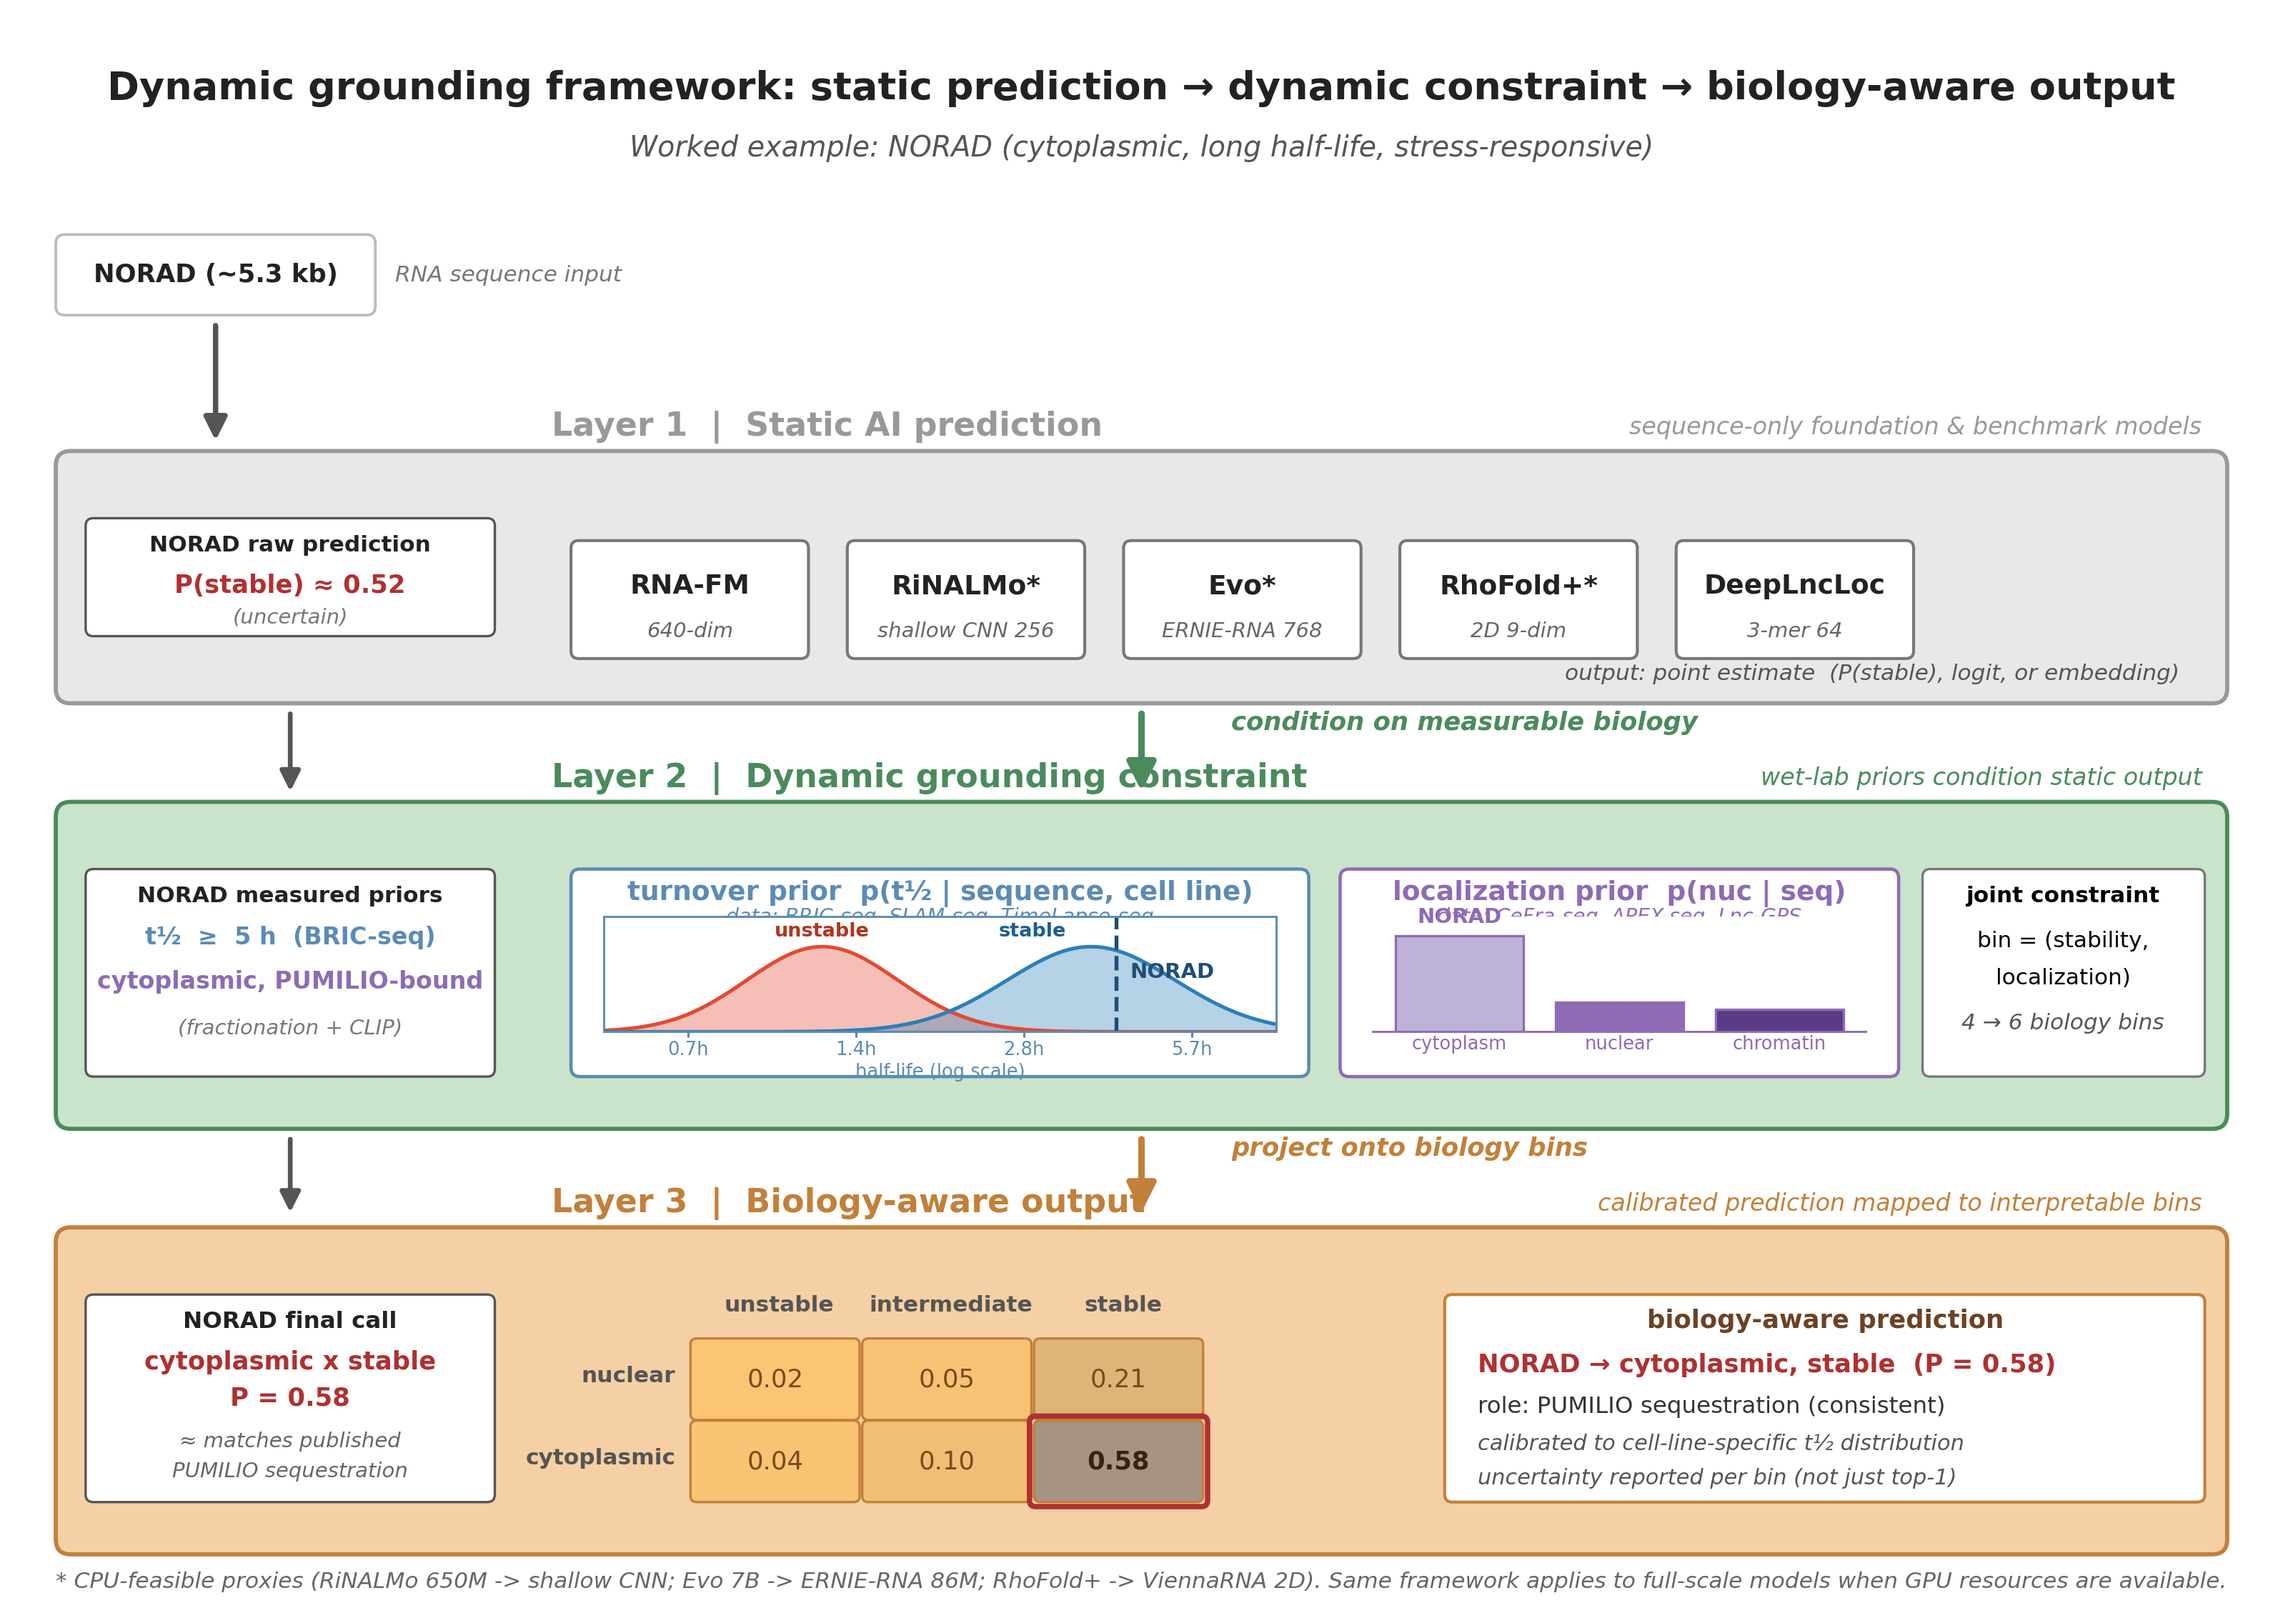
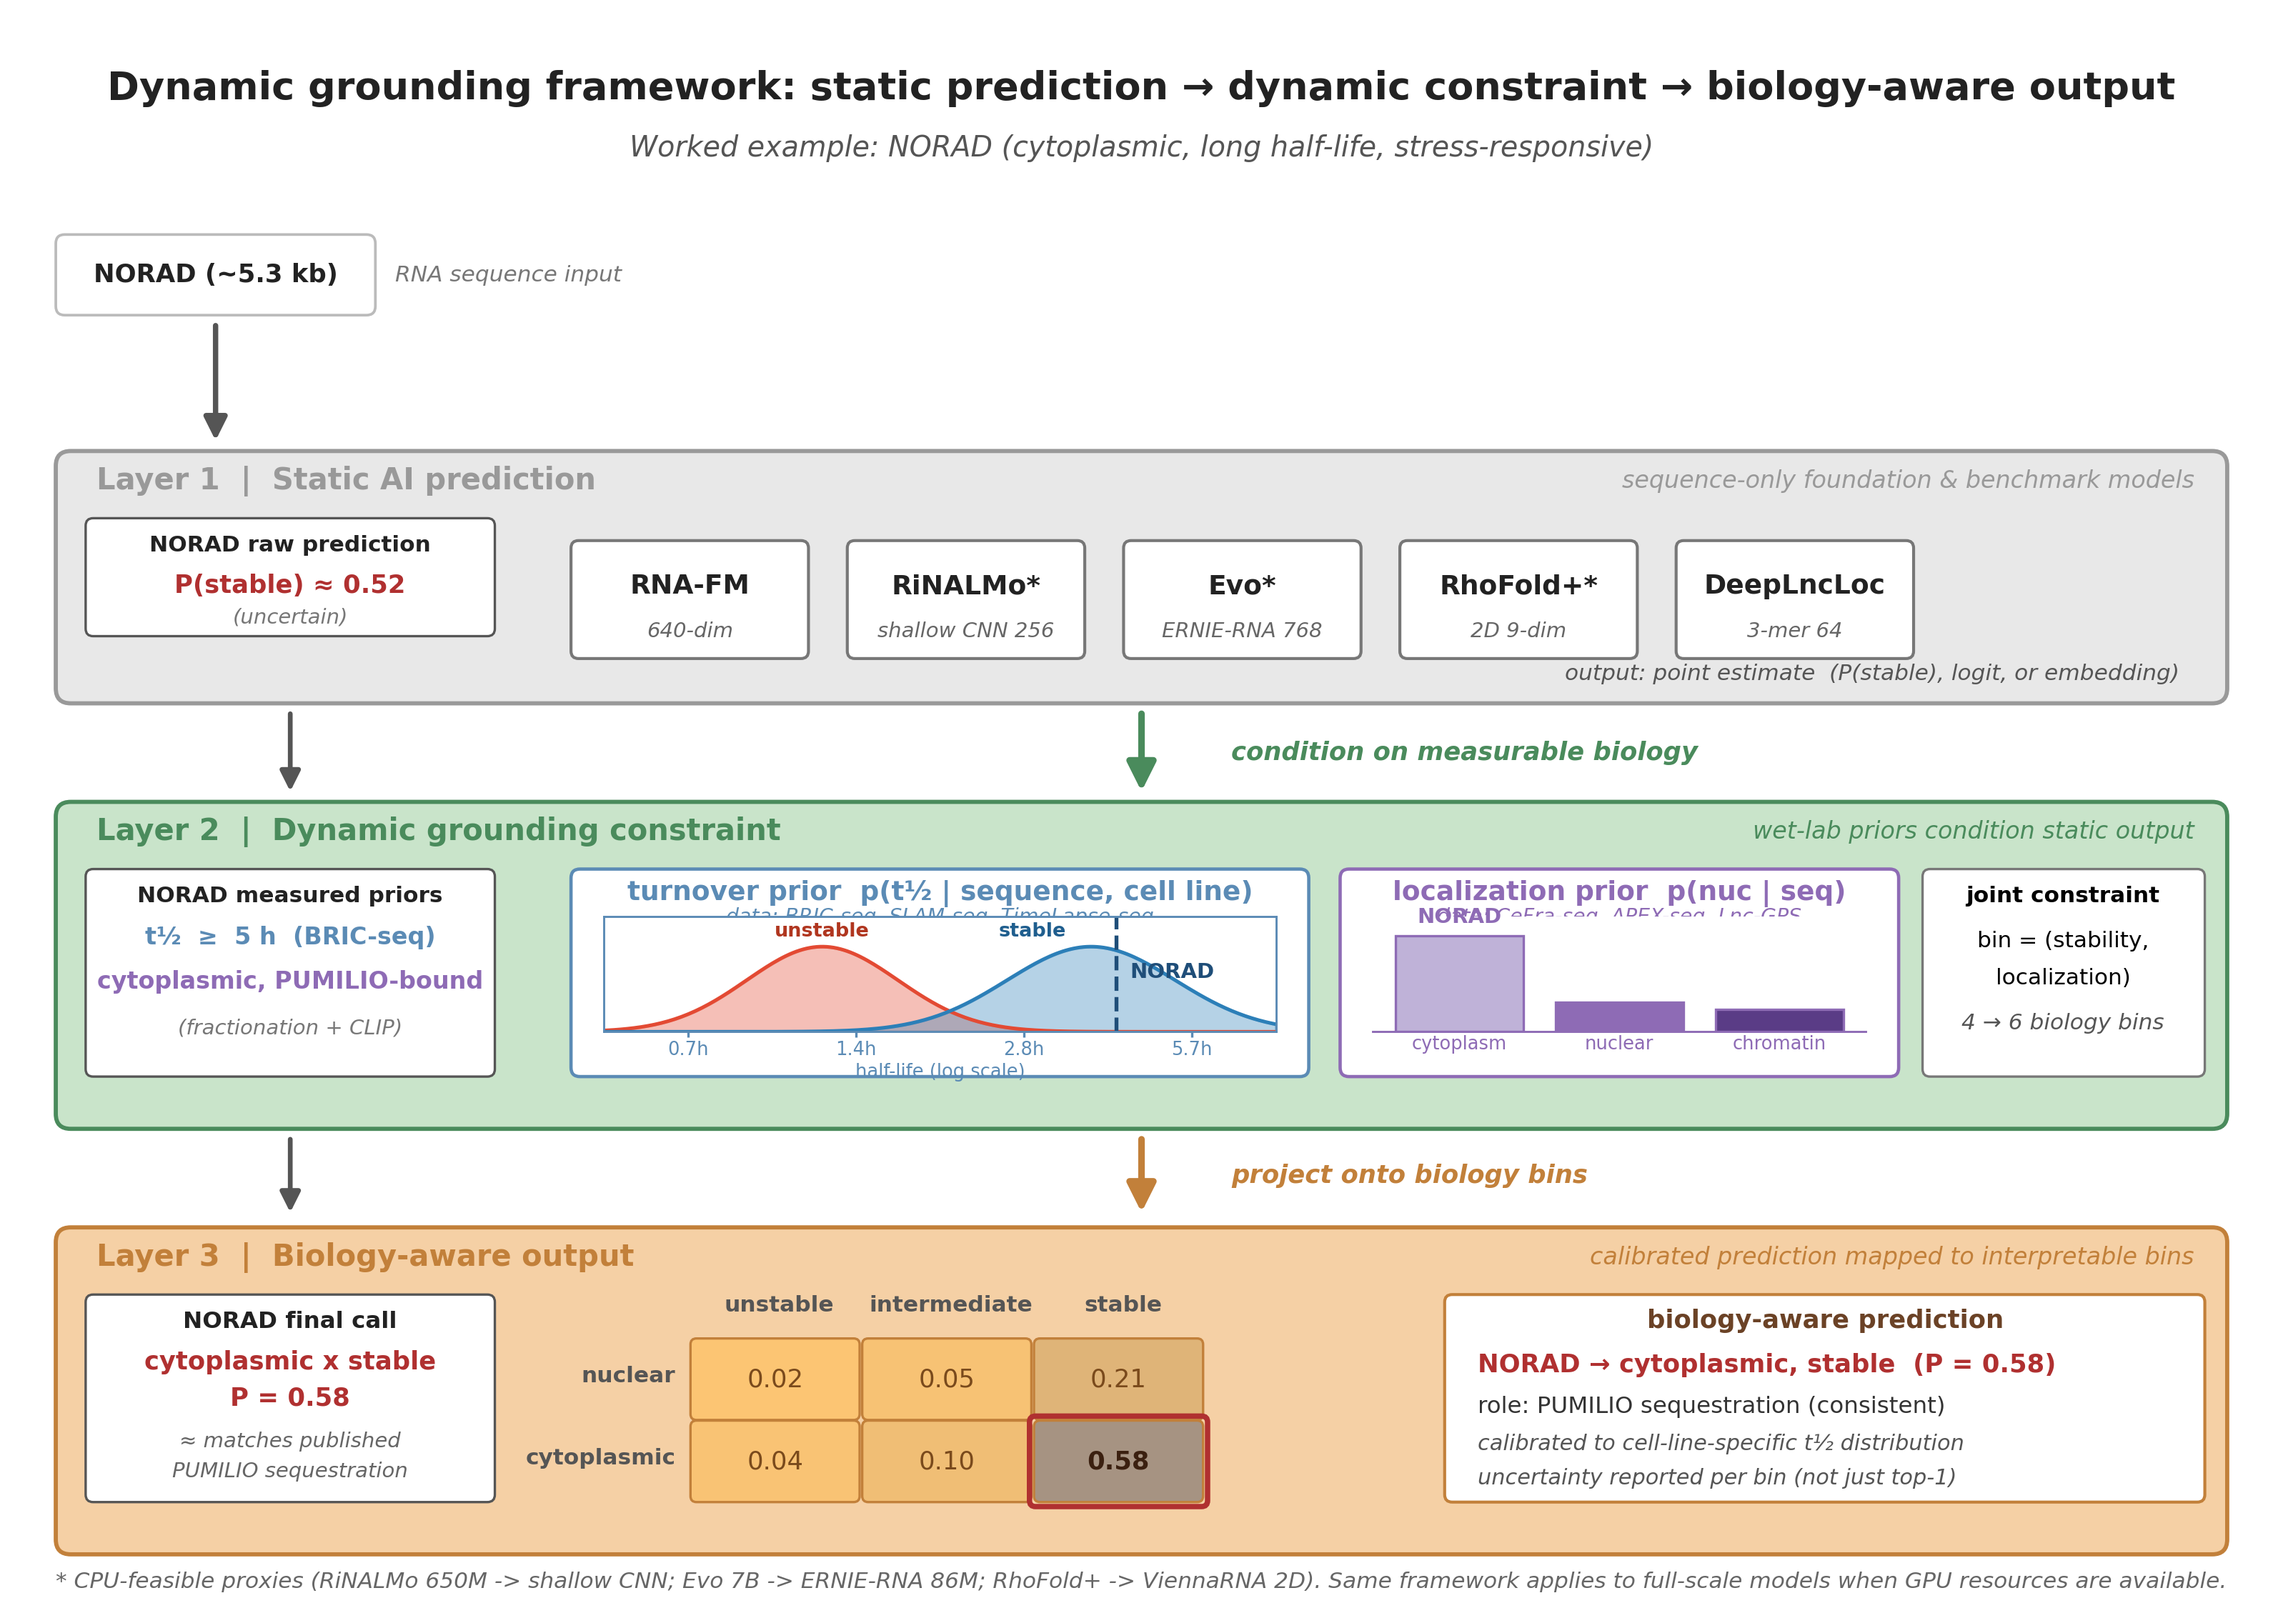
fig5: move layer headers inside bands to eliminate arrow crossover
The previous layout kept the Layer headers above each band, which
caused the central bridge arrows (x=7.5) to cross through the
Dynamic grounding constraint and Biology-aware output header text.
Place the header text inside the band at the top left (and the
italic subtitle at the top right) so the inter-band gap contains
only the bridge arrow and its italic caption.

diff --git a/figures/fig5_framework.py b/figures/fig5_framework.py
@@ -86,13 +86,14 @@ def draw_arrow(ax, xy_from, xy_to, color=C_ARROW, lw=1.6, style="-|>",
 
 def layer_band(ax, x, y, w, h, color, edge, label, sublabel=None):
     draw_rounded_box(ax, x, y, w, h, color, edge, lw=1.4, rounding=0.1)
-    # Header placed ABOVE the band, shifted right so the left-column
-    # vertical arrows (x~1.8) do not cross the header text.
-    ax.text(x + 3.30, y + h + 0.18, label,
+    # Header placed INSIDE the band at the top so the inter-band gap
+    # contains only the bridge arrow and its italic caption; this
+    # avoids the central down-arrow crossing the header text.
+    ax.text(x + 0.25, y + h - 0.18, label,
             ha="left", va="center",
-            fontsize=11, fontweight="bold", color=edge)
+            fontsize=10, fontweight="bold", color=edge)
     if sublabel:
-        ax.text(x + w - 0.15, y + h + 0.18, sublabel,
+        ax.text(x + w - 0.20, y + h - 0.18, sublabel,
                 ha="right", va="center",
                 fontsize=8, fontstyle="italic", color=edge)
 
@@ -191,7 +192,7 @@ def main():
     # ------------------------------------------------------------------
     # Center bridge arrow
     draw_arrow(ax, (7.5, 5.90), (7.5, 5.30), color=C_ARROW_DN, lw=2.2, mutation_scale=20)
-    ax.text(8.1, 5.80, "condition on measurable biology",
+    ax.text(8.1, 5.60, "condition on measurable biology",
             ha="left", va="center",
             fontsize=8.5, fontweight="bold", color=C_ARROW_DN, fontstyle="italic")
 
@@ -404,7 +405,7 @@ def main():
     draw_arrow(ax, (1.8, 3.05), (1.8, 2.48), color=C_ARROW, lw=1.6, mutation_scale=14)
     # Layer 2 → Layer 3 central bridge
     draw_arrow(ax, (7.5, 3.05), (7.5, 2.48), color=C_ARROW_OUT, lw=2.2, mutation_scale=20)
-    ax.text(8.1, 2.95, "project onto biology bins",
+    ax.text(8.1, 2.77, "project onto biology bins",
             ha="left", va="center",
             fontsize=8.5, fontweight="bold", color=C_ARROW_OUT, fontstyle="italic")
 
